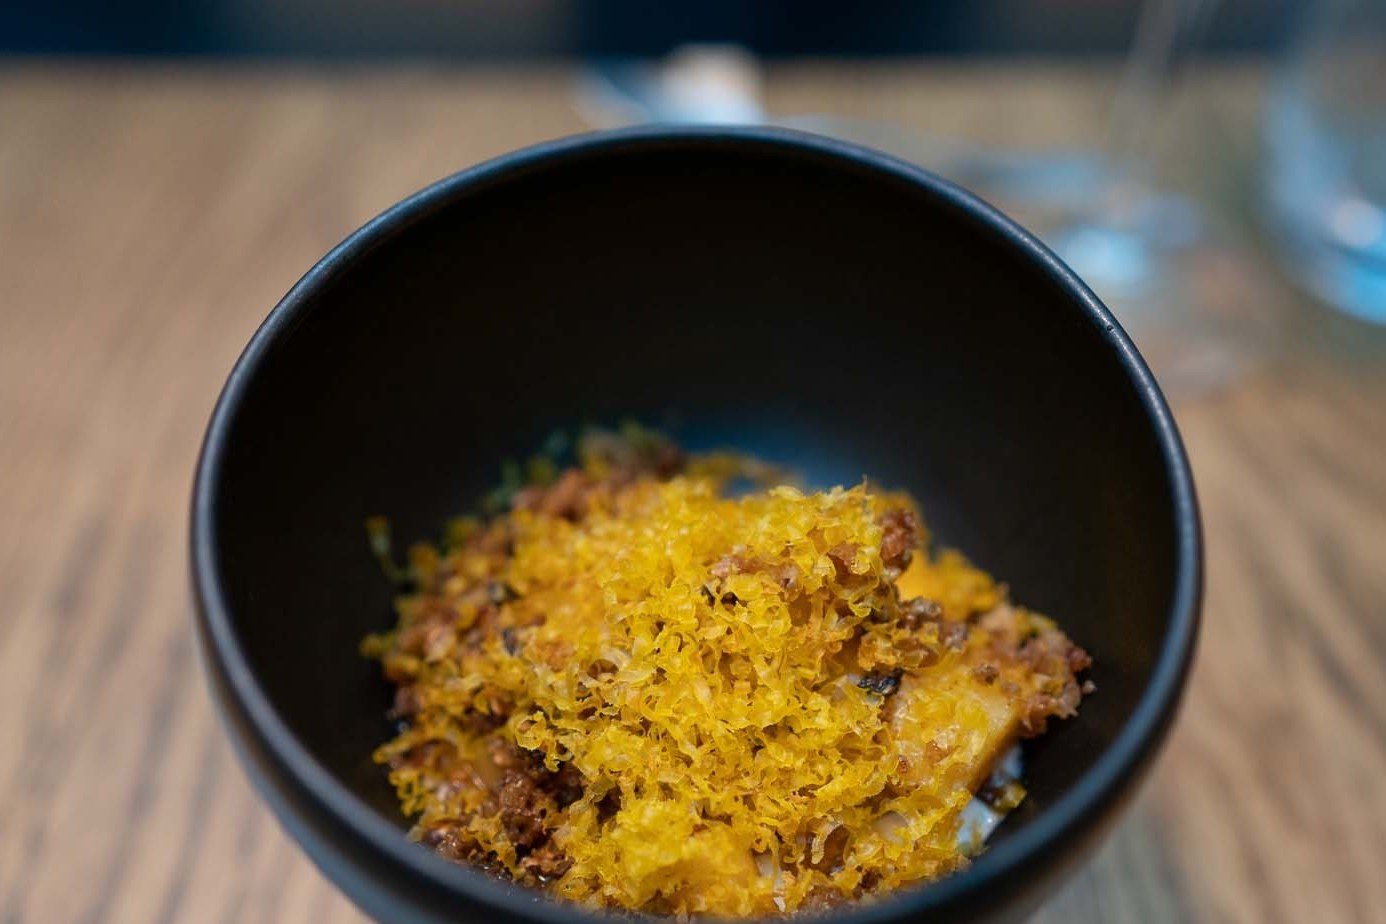
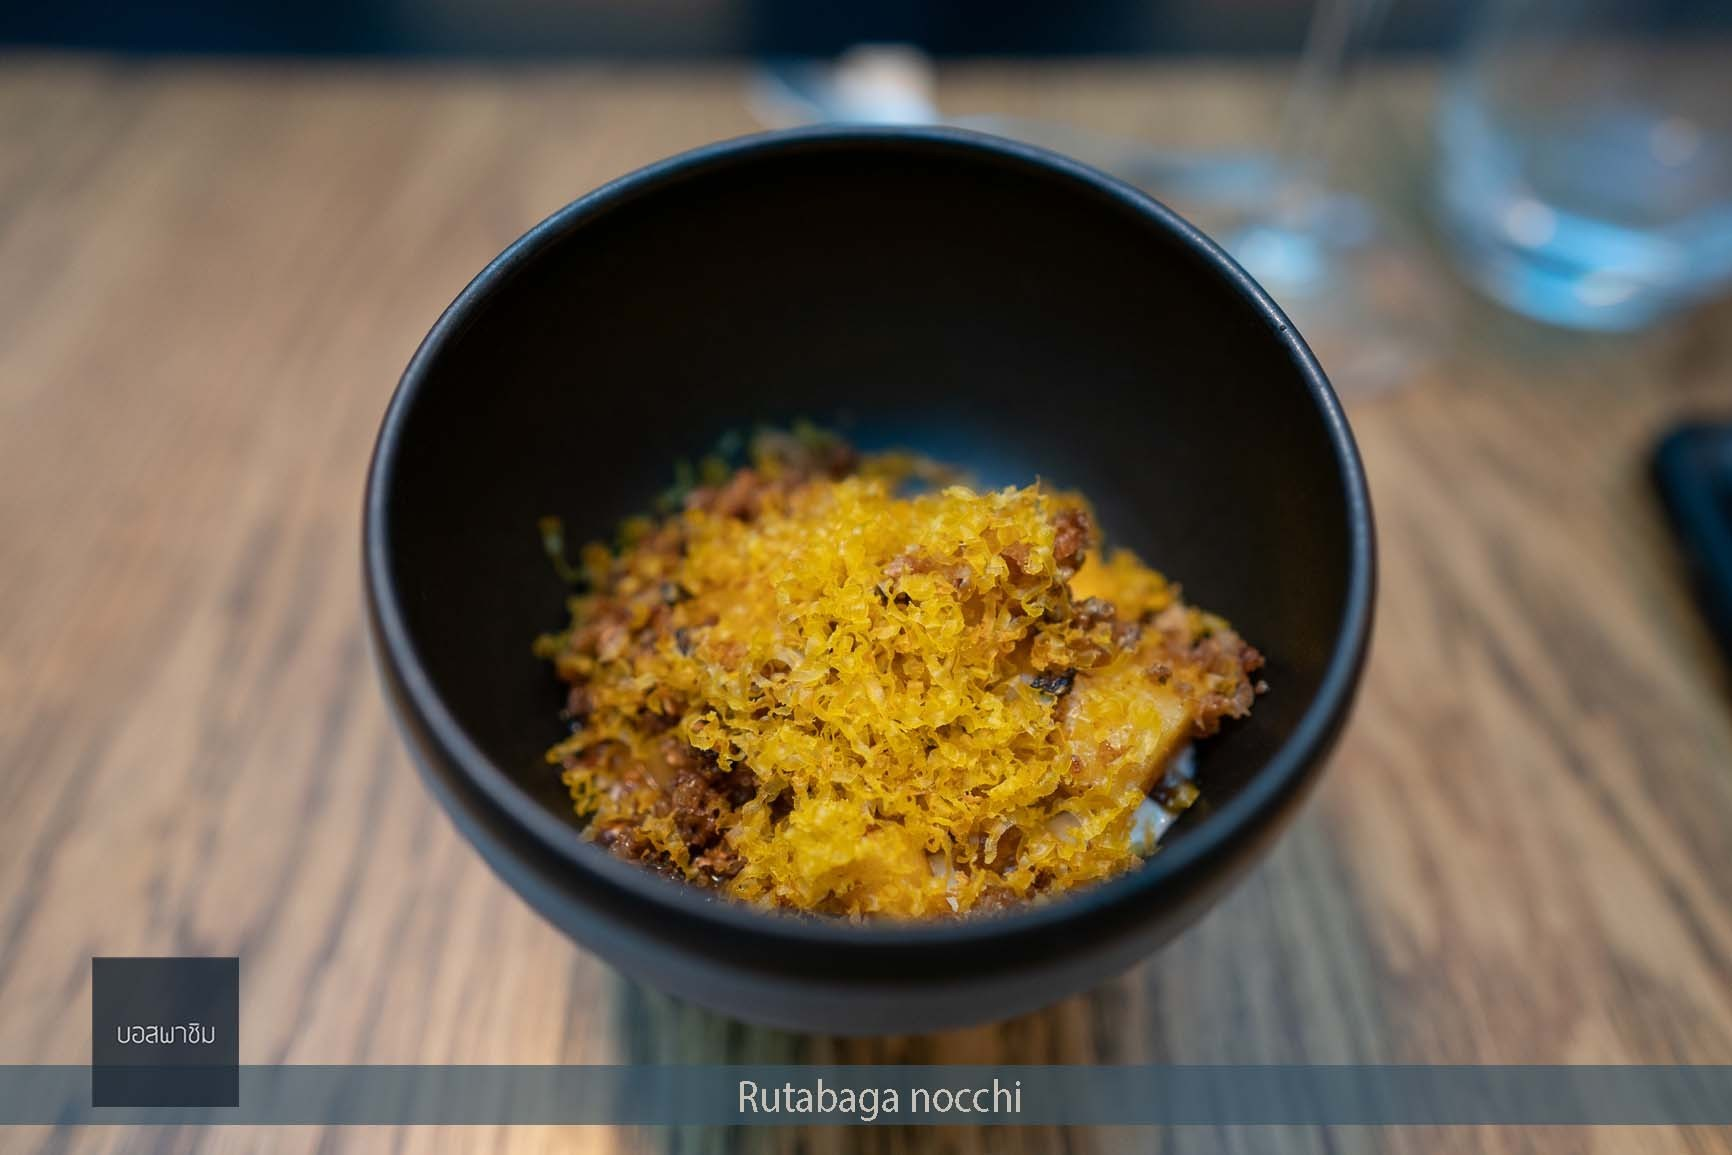
ox-reykjavik: use as-shot originals with caption bar (Boss OK 11 Nov); cover focus/zoom keeps bar out of 3:2
Claude-Session: https://claude.ai/code/session_017cY6J6uPkEjNrLqN3xSHNx

diff --git a/posts/ox-reykjavik.md b/posts/ox-reykjavik.md
@@ -10,7 +10,7 @@ restaurant:
   cuisine: "Nordic"
   style: "New Nordic"
   awards: ["MICHELIN Plate 2019", "Nordic White Guide Global Master Level"]
-cover: "./images/ox-reykjavik/cover.jpg | ขนมชั้นสีเขียวซ้อนบนจานเทาล้อมด้วยซอสเขียว ร้าน Ox เรคยาวิก"
+cover: "./images/ox-reykjavik/cover.jpg | ขนมชั้นสีเขียวซ้อนบนจานเทาล้อมด้วยซอสเขียว ร้าน Ox เรคยาวิก | focus=0.5,0.4 | zoom=1.25"
 billBand: "฿฿฿"
 visit: Aug-2019
 hashtags: [บอสพาชิม, eatliketheboss, Ox, Reykjavik]
